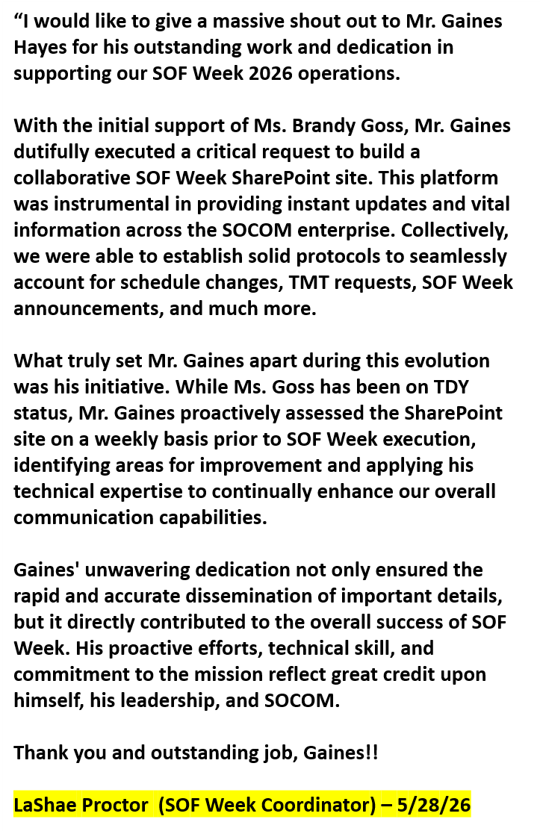
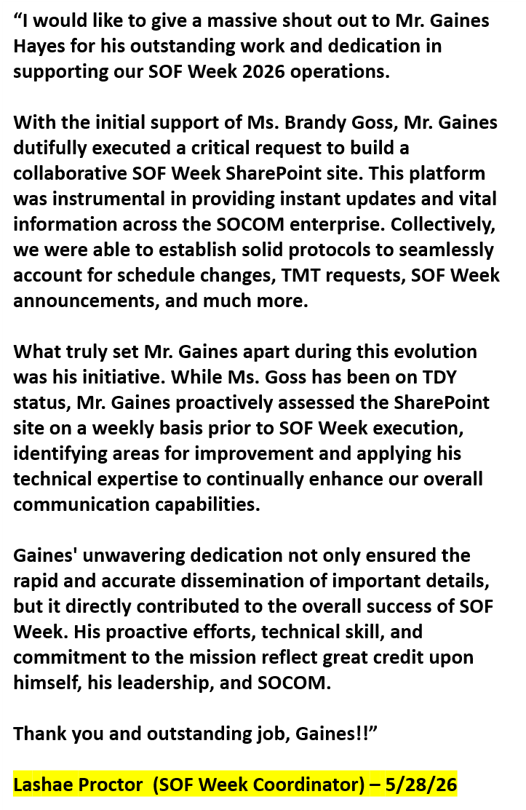
new recs

diff --git a/index.html b/index.html
@@ -132,10 +132,12 @@
 		<img src="img/Marie_commendation.png"> <p><br><p>
 		<img src="img/Sammy Commendation.png"> <p><br><p>
 		<img src="img/Guy_Recommendation.png"> <p><br><p>
+		<img src="img/Miller_Recommendation.png"> <p><br><p>
 		<img src="img/Cristianne_Recommendation.png"> <p><br><p>
 		<img src="img/Robbins_Recommendation.png"> <p><br><p>
 		<img src="img/Tim_Recommendation.png"> <p><br><p>
 		<img src="img/LaShae_Recommendation.png"> <p><br><p>
+		<img src="img/Berlin_Recommendation.png"> <p><br><p>
     </div>
    </section> 
 
